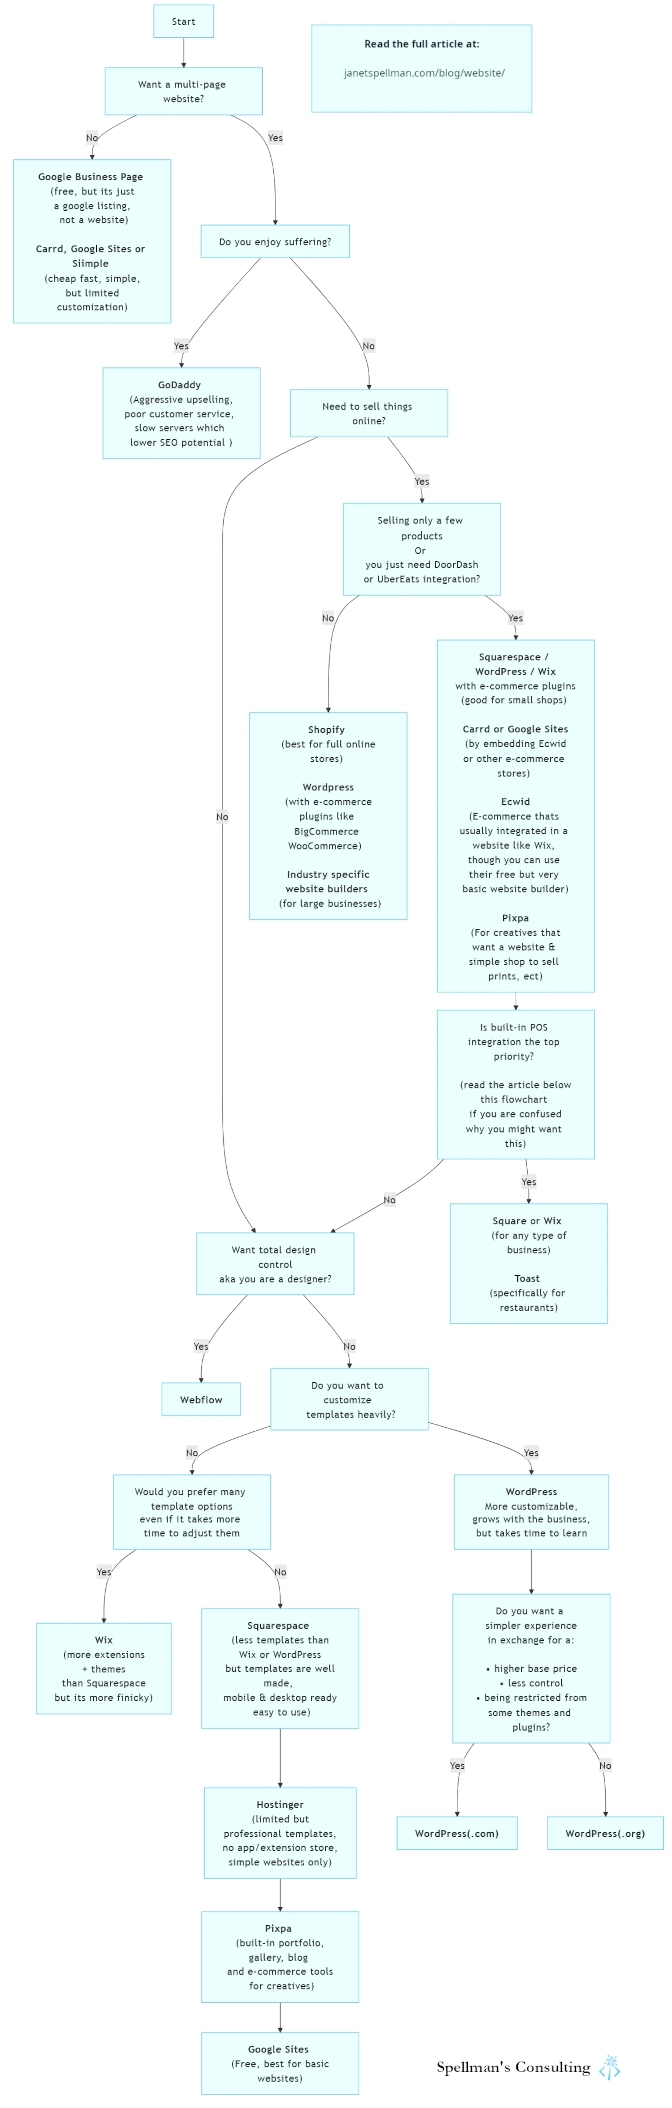
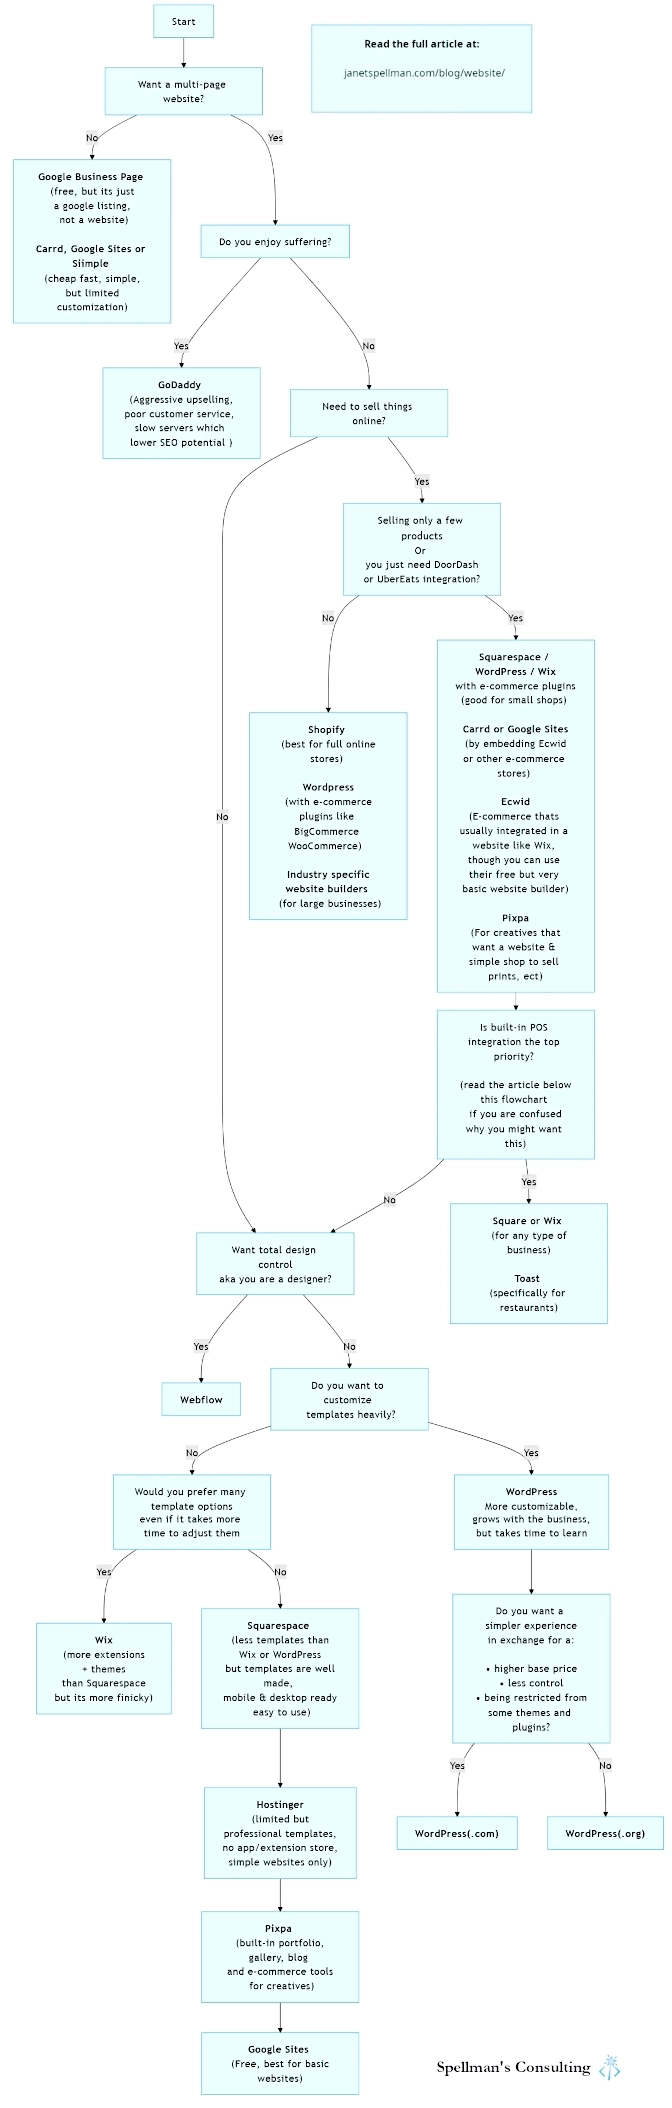
performance: created a larger version of the flowchart for retina screens

Changed region(s): [[0.5, 0.4009, 0.5312, 0.4317], [0.4062, 0.7709, 0.4375, 0.8017]]

diff --git a/app/page.tsx b/app/page.tsx
@@ -173,8 +173,8 @@ export default function LandingPage() {
         </h2>
 
         <DownloadImage
-          downloadSrc="/images/website-flowchart.webp"
-          srcSet="/images/website-flowchart.webp 609w, /images/website-flowchart-mobile.webp 1156w"
+          downloadSrc="/images/website-flowchart-large.webp"
+          srcSet="/images/website-flowchart.webp 672w, /images/website-flowchart-large.webp 1344w"
           alt="Flowchart diagram, there is a text version below"
           label="Download flowchart"
         />
